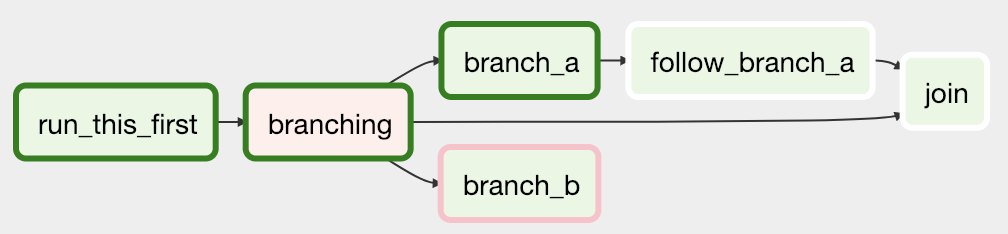
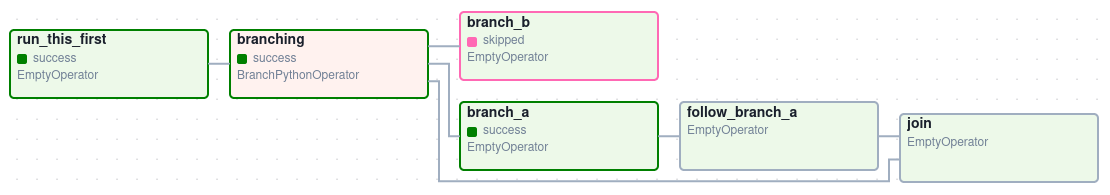
Bugfix/update screenshots (#38438)
* Remove images with no reference in docs

* Update broken image reference in tutorial example

* Update hints about params definition in trigger DAG UI

* Remove images with no reference in docs

* Update screenshots before Airflow 2.9 release

* Adjust example tutorial to use underscore consistently

Changed region(s): [[0.0, 0.0308, 1.0, 0.9538]]

diff --git a/airflow/example_dags/tutorial.py b/airflow/example_dags/tutorial.py
@@ -95,7 +95,7 @@ with DAG(
     You can document your task using the attributes `doc_md` (markdown),
     `doc` (plain text), `doc_rst`, `doc_json`, `doc_yaml` which gets
     rendered in the UI's Task Instance Details page.
-    ![img](http://montcs.bloomu.edu/~bobmon/Semesters/2012-01/491/import%20soul.png)
+    ![img](https://imgs.xkcd.com/comics/fixing_problems.png)
     **Image Credit:** Randall Munroe, [XKCD](https://xkcd.com/license.html)
     """
     )

diff --git a/docs/apache-airflow/tutorial/pipeline.rst b/docs/apache-airflow/tutorial/pipeline.rst
@@ -196,7 +196,7 @@ We've developed our tasks, now we need to wrap them in a DAG, which enables us t
 * only run once in the event that days are missed, and
 * timeout after 60 minutes
 
-And from the last line in the definition of the ``process-employees`` DAG, we see:
+And from the last line in the definition of the ``process_employees`` DAG, we see:
 
 .. code-block:: python
 
@@ -221,7 +221,7 @@ Putting all of the pieces together, we have our completed DAG.
 
 
   @dag(
-      dag_id="process-employees",
+      dag_id="process_employees",
       schedule_interval="0 0 * * *",
       start_date=pendulum.datetime(2021, 1, 1, tz="UTC"),
       catchup=False,
@@ -308,15 +308,15 @@ Putting all of the pieces together, we have our completed DAG.
 
   dag = ProcessEmployees()
 
-Save this code to a python file in the ``/dags`` folder (e.g. ``dags/process-employees.py``) and (after a `brief delay <https://airflow.apache.org/docs/apache-airflow/stable/configurations-ref.html#dag-dir-list-interval>`_), the ``process-employees`` DAG will be included in the list of available DAGs on the web UI.
+Save this code to a python file in the ``/dags`` folder (e.g. ``dags/process_employees.py``) and (after a `brief delay <https://airflow.apache.org/docs/apache-airflow/stable/configurations-ref.html#dag-dir-list-interval>`_), the ``process_employees`` DAG will be included in the list of available DAGs on the web UI.
 
 .. image:: ../img/tutorial-pipeline-1.png
 
-You can trigger the ``process-employees`` DAG by unpausing it (via the slider on the left end) and running it (via the Run button under **Actions**).
+You can trigger the ``process_employees`` DAG by unpausing it (via the slider on the left end) and running it (via the Run button under **Actions**).
 
 .. image:: ../img/tutorial-pipeline-2.png
 
-In the ``process-employees`` DAG's **Grid** view, we see all that all tasks ran successfully in all executed runs. Success!
+In the ``process_employees`` DAG's **Grid** view, we see all that all tasks ran successfully in all executed runs. Success!
 
 What's Next?
 -------------

diff --git a/docs/apache-airflow/core-concepts/dag-run.rst b/docs/apache-airflow/core-concepts/dag-run.rst
@@ -252,7 +252,15 @@ Using CLI
 Using UI
 ^^^^^^^^^^
 
+In the UI the parameters to trigger a DAG can be better represented via ``params`` definition as described in
+:ref:`concepts:params` documentation. Via defined params a proper form for value entry is rendered.
+
+If the DAG does not define ``params``the form is usually skipped, via the configuration option ``show_trigger_form_if_no_params``
+it is possible to force the display the classic form of a dict-only entry to pass configuration options.
+
 .. image:: ../img/example_passing_conf.png
+
+Please consider to convert such usage to ``params`` as this is the more convenient way and allows also validation of user input.
 
 To Keep in Mind
 ''''''''''''''''
